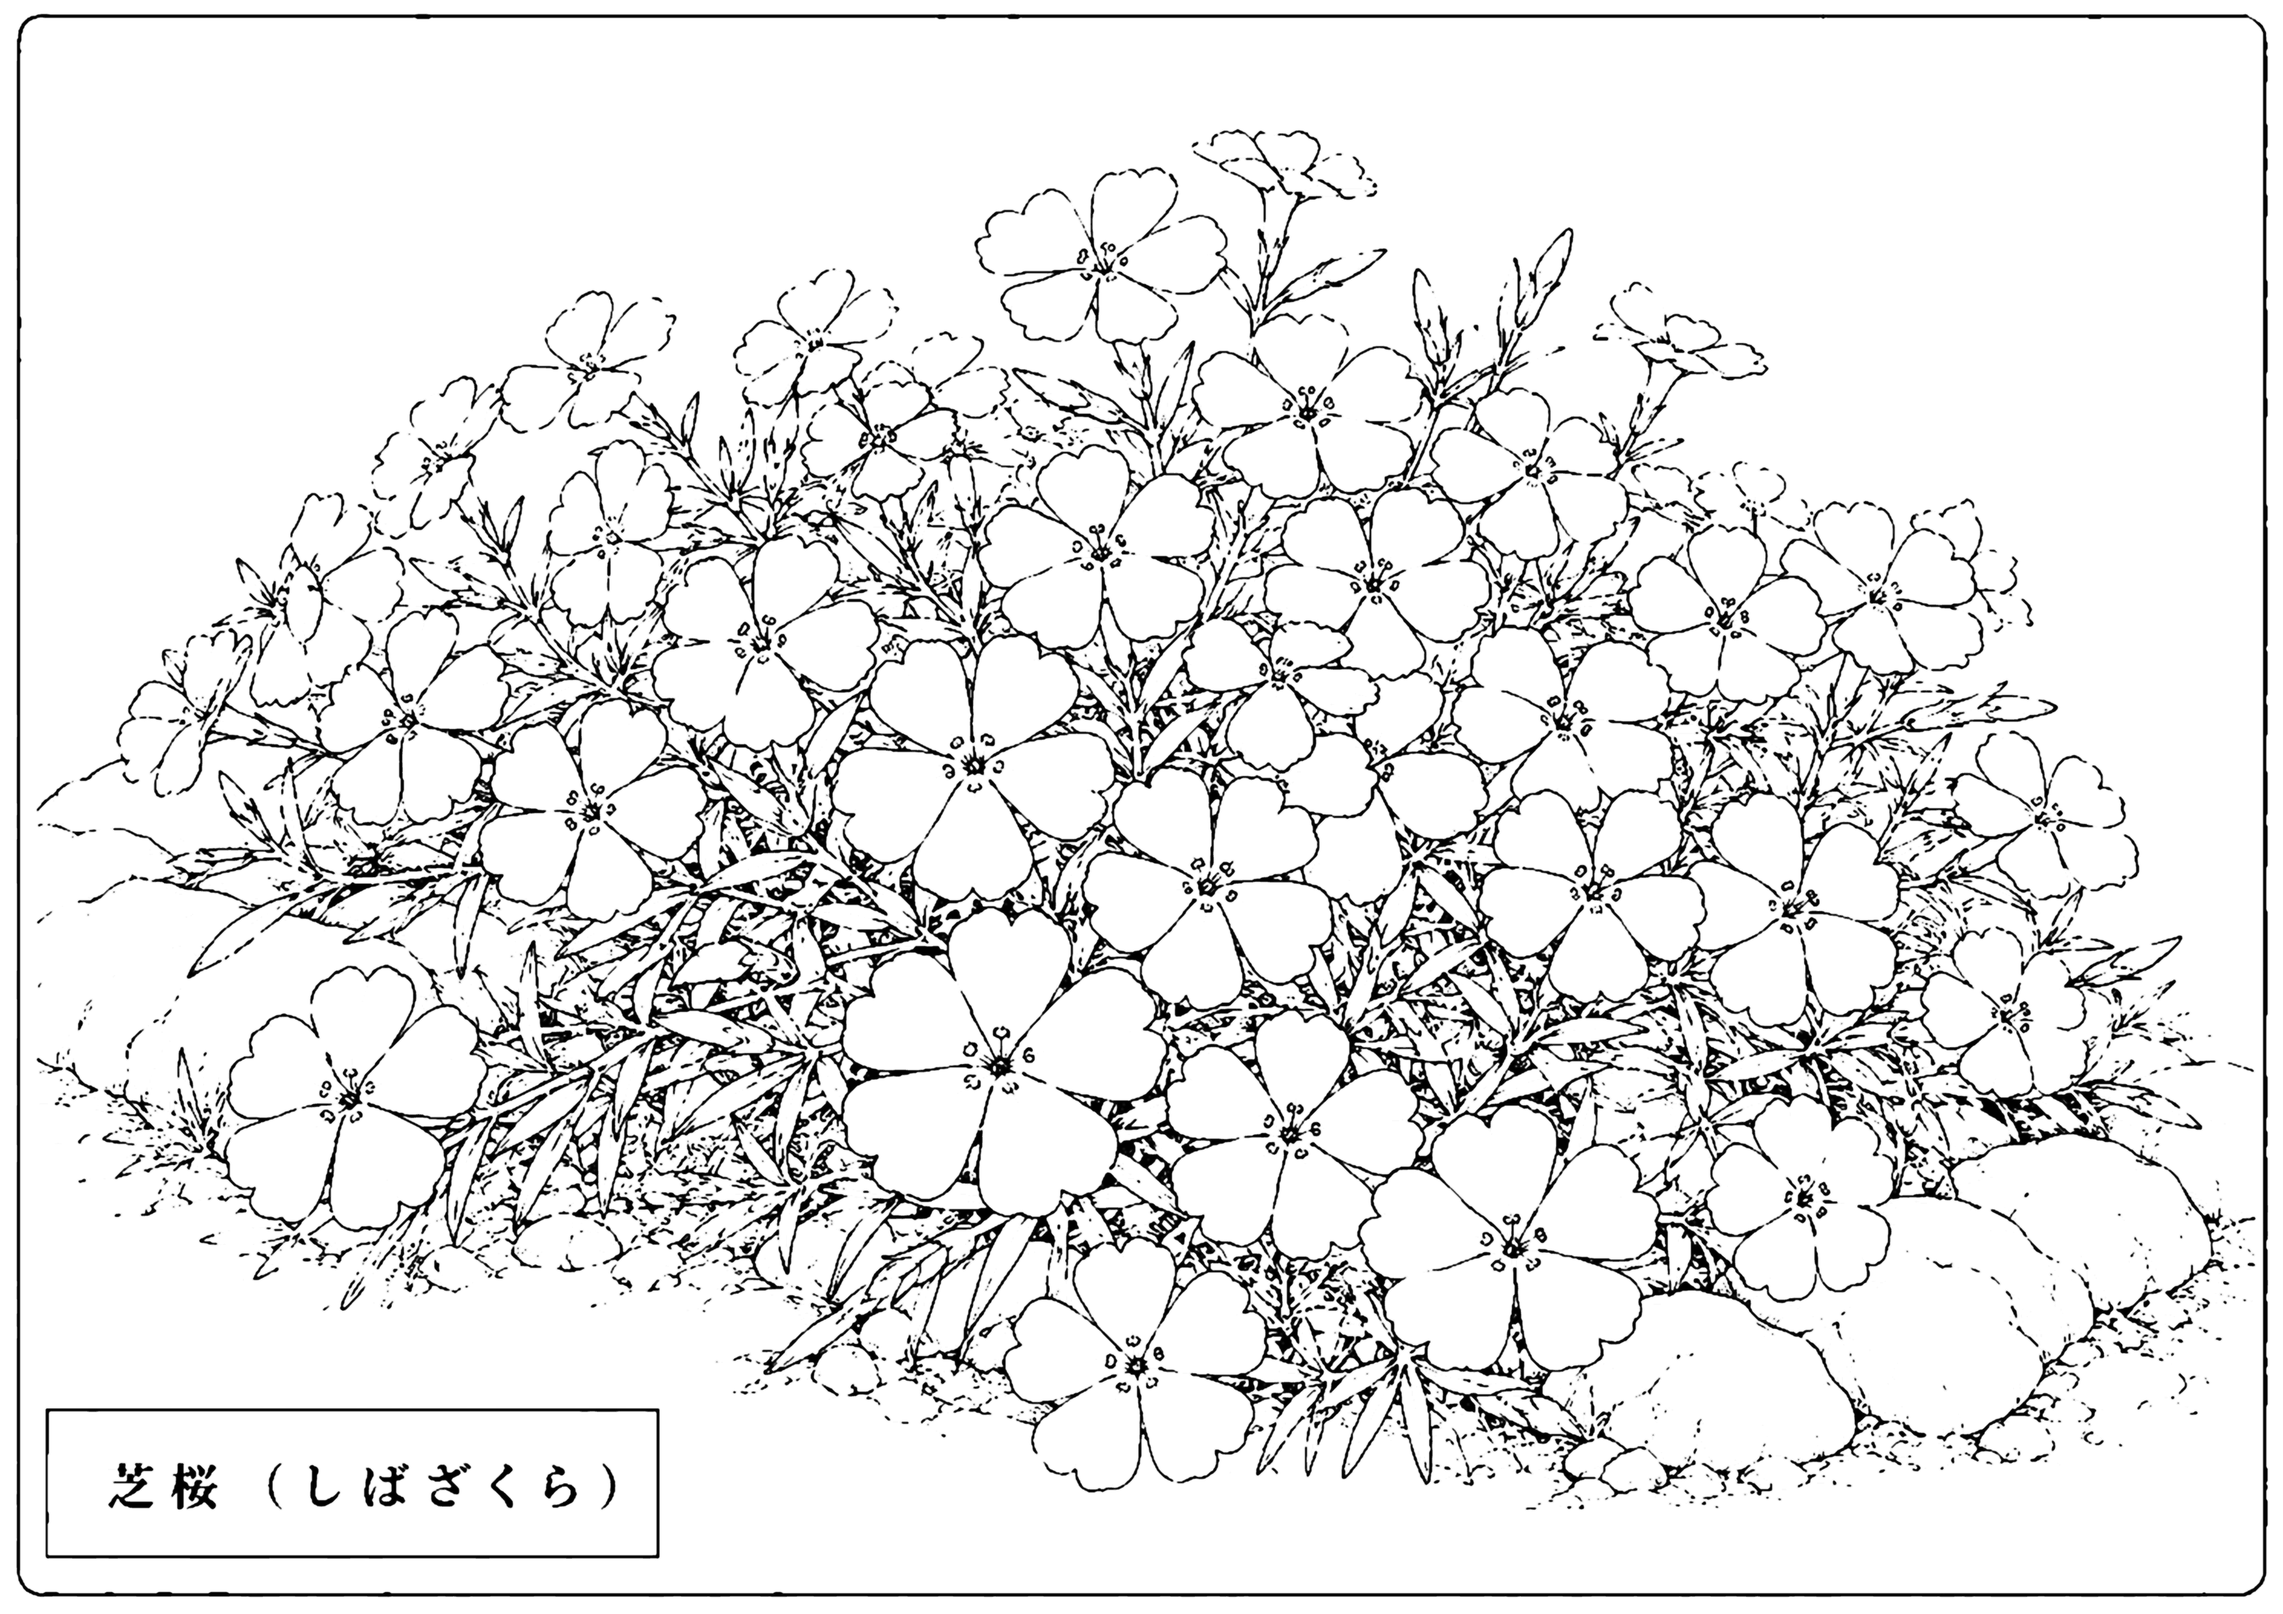
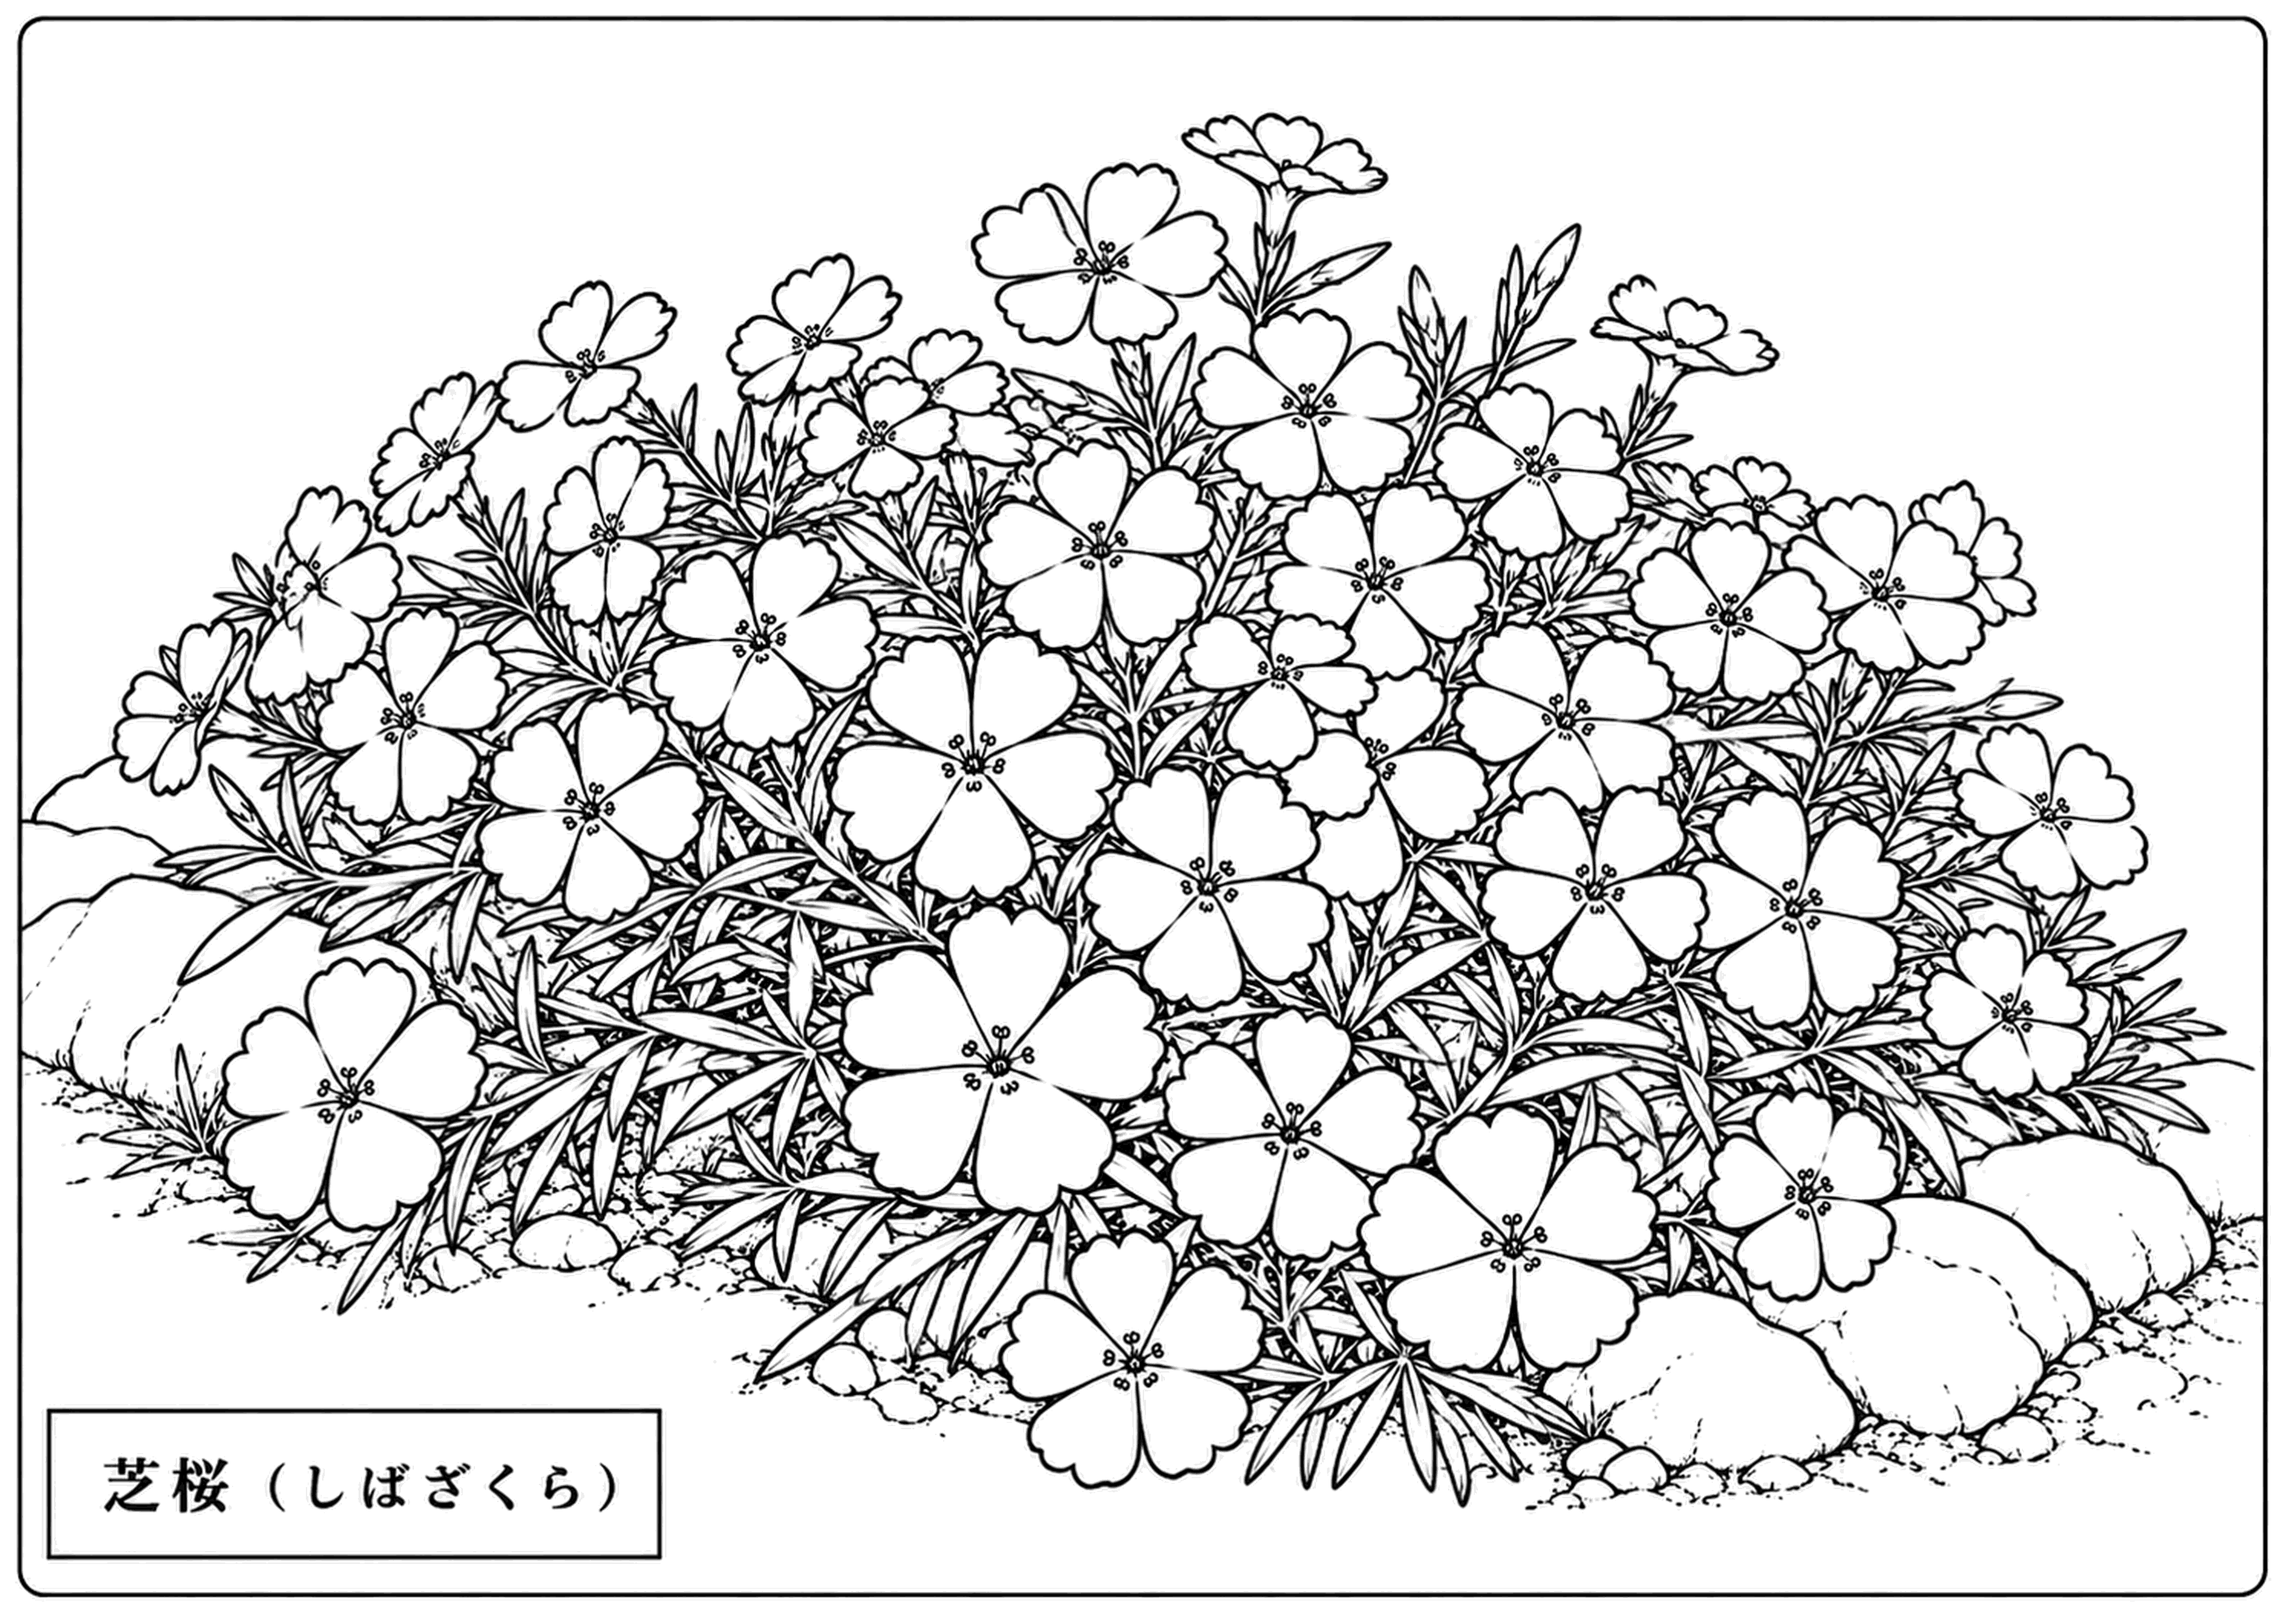
芝桜の線画を差し替え
Claude-Session: https://claude.ai/code/session_01G5ET7MVBvjhnxGfepP59sZ

diff --git a/data.js b/data.js
@@ -10,15 +10,15 @@ window.NURIE_LIST = [
   { season: "夏", genre: "花", title: "ひまわり", diff: "上級", file: "himawari_jo.png", sample: "himawari_jo_sample.jpg", v: "1792492766386" },
   { season: "夏", genre: "花", title: "ひまわり畑", diff: "上級", file: "himawari_batake_jo.png", sample: "himawari_batake_jo_sample.jpg", v: "1792492766386" },
   { season: "夏", genre: "花", title: "ほおずき", diff: "中級", file: "hozuki_chu.png", sample: "hozuki_chu_sample.jpg", v: "1792493461422" },
-  { season: "夏", genre: "花", title: "ゆり", diff: "中級", file: "yuri_chu.png", sample: "yuri_chu_sample.jpg", v: "1792493461422" },
+  { season: "夏", genre: "花", title: "ゆり", diff: "中級", file: "yuri_chu.png", sample: "yuri_chu_sample.jpg", v: "1792510809761" },
   { season: "夏", genre: "花", title: "アサガオ", diff: "中級", file: "asagao_chu.png", sample: "asagao_chu_sample.jpg", v: "1792493461422" },
-  { season: "夏", genre: "花", title: "オシロイバナ", diff: "中級", file: "oshiroibana_chu.png", sample: "oshiroibana_chu_sample.jpg", v: "1792493461422" },
+  { season: "夏", genre: "花", title: "オシロイバナ", diff: "中級", file: "oshiroibana_chu.png", sample: "oshiroibana_chu_sample.jpg", v: "1792511016224" },
   { season: "夏", genre: "花", title: "クチナシ", diff: "中級", file: "kuchinashi_chu.png", sample: "kuchinashi_chu_sample.jpg", v: "1792493461422" },
-  { season: "夏", genre: "花", title: "スイレン", diff: "中級", file: "suiren_chu.png", sample: "suiren_chu_sample.jpg", v: "1792493461422" },
+  { season: "夏", genre: "花", title: "スイレン", diff: "中級", file: "suiren_chu.png", sample: "suiren_chu_sample.jpg", v: "1792511181531" },
   { season: "夏", genre: "花", title: "ダリア", diff: "中級", file: "dahlia_chu.png", sample: "dahlia_chu_sample.jpg", v: "1792493461422" },
   { season: "夏", genre: "花", title: "ノウゼンカズラ", diff: "中級", file: "nouzenkazura_chu.png", sample: "nouzenkazura_chu_sample.jpg", v: "1792493461422" },
   { season: "夏", genre: "花", title: "ハイビスカス", diff: "中級", file: "hibiscus_chu.png", sample: "hibiscus_chu_sample.jpg", v: "1792493461422" },
-  { season: "夏", genre: "花", title: "ハナショウブ", diff: "中級", file: "hanashobu_chu.png", sample: "hanashobu_chu_sample.jpg", v: "1792493461422" },
+  { season: "夏", genre: "花", title: "ハナショウブ", diff: "中級", file: "hanashobu_chu.png", sample: "hanashobu_chu_sample.jpg", v: "1792510916362" },
   { season: "夏", genre: "花", title: "マリーゴールド", diff: "中級", file: "marigold_chu.png", sample: "marigold_chu_sample.jpg", v: "1792494189037" },
   { season: "夏", genre: "花", title: "ラベンダー", diff: "中級", file: "lavender_chu.png", sample: "lavender_chu_sample.jpg", v: "1792494189037" },
   { season: "夏", genre: "花", title: "百日紅", diff: "中級", file: "sarusuberi_chu.png", sample: "sarusuberi_chu_sample.jpg", v: "1792494189037" },
@@ -165,7 +165,7 @@ window.NURIE_LIST = [
   { season: "春", genre: "花", title: "ラナンキュラス", diff: "中級", file: "ranunculus_chu.png", sample: "ranunculus_chu_sample.jpg", v: "1792486825865" },
   { season: "春", genre: "花", title: "桜", diff: "中級", file: "sakura_chu.png", sample: "sakura_chu_sample.jpg", v: "1792486825865" },
   { season: "春", genre: "花", title: "梅の花", diff: "中級", file: "ume_chu.png", sample: "ume_chu_sample.jpg", v: "1792486825865" },
-  { season: "春", genre: "花", title: "芝桜", diff: "中級", file: "shibazakura_chu.png", sample: "shibazakura_chu_sample.jpg", v: "1792486825865" },
+  { season: "春", genre: "花", title: "芝桜", diff: "中級", file: "shibazakura_chu.png", sample: "shibazakura_chu_sample.jpg", v: "1792511275519" },
   { season: "春", genre: "花", title: "花かんざし", diff: "中級", file: "hanakanzashi_chu.png", sample: "hanakanzashi_chu_sample.jpg", v: "1792486825865" },
   { season: "春", genre: "花", title: "藤", diff: "中級", file: "fuji_hana_chu.png", sample: "fuji_hana_chu_sample.jpg", v: "1792490176482" },
   { season: "夏", genre: "花", title: "ペチュニア", diff: "中級", file: "petunia_chu.png", sample: "petunia_chu_sample.jpg", v: "1792506279801" },
